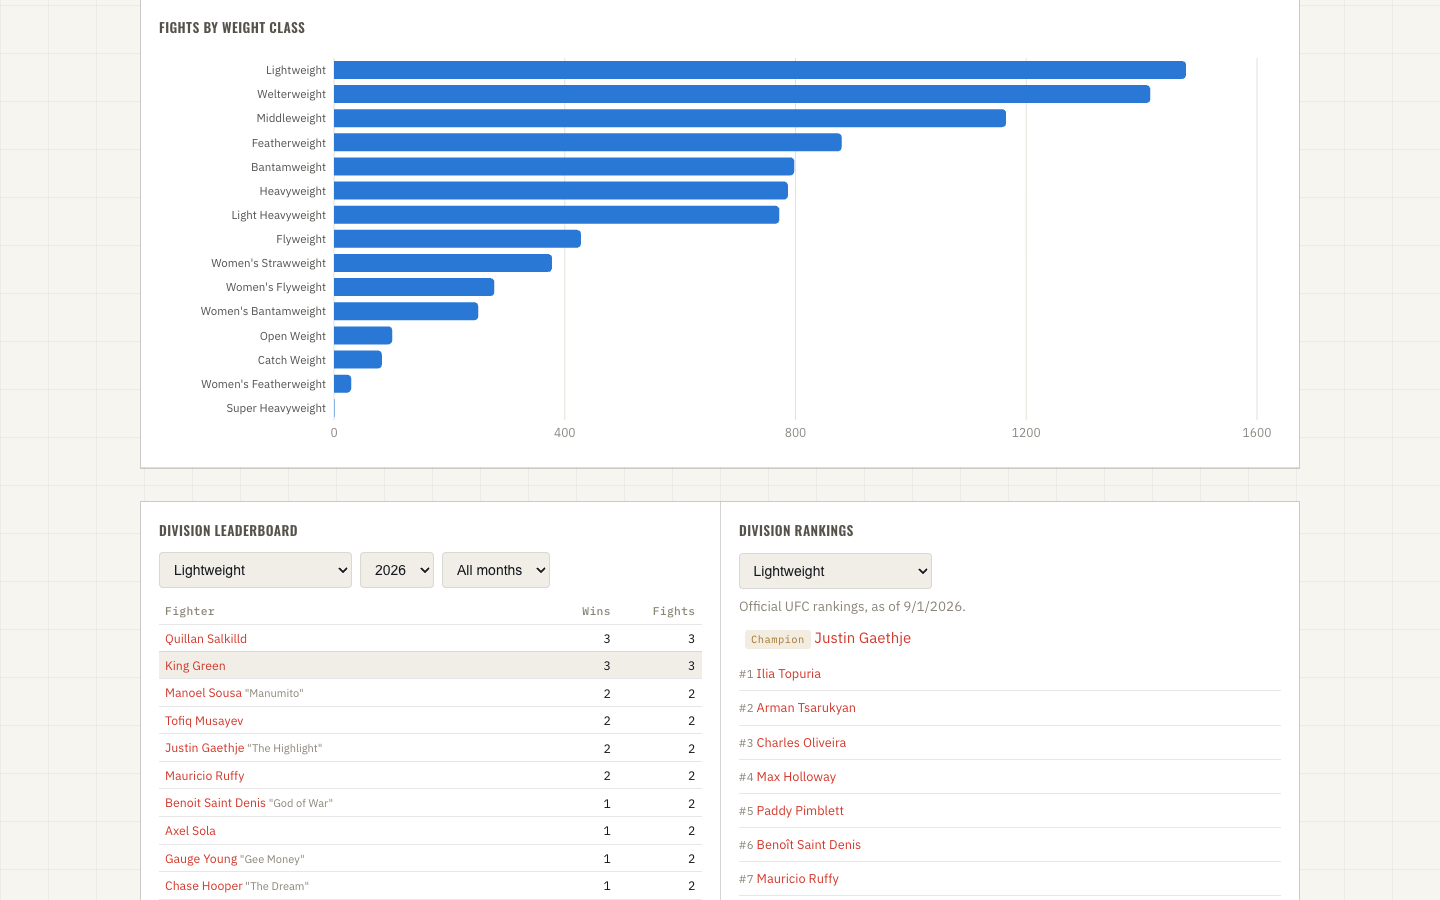
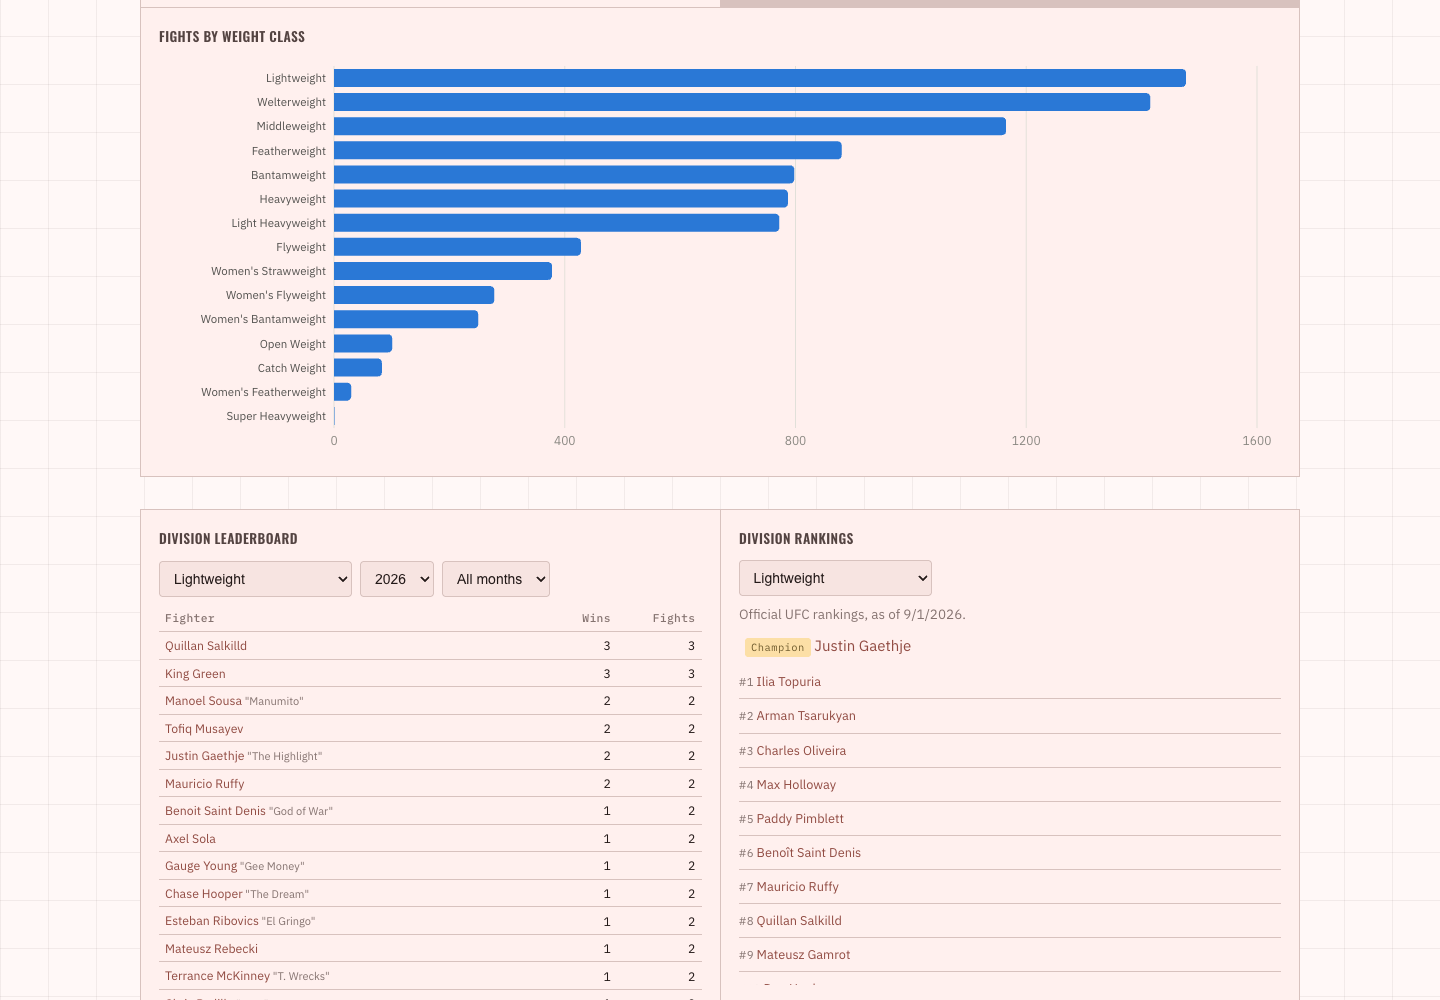
Rebuild UI on Material 3: algorithmically-generated color roles from the existing red-corner accent, real M3 state layers on interactive controls; keep the fight-card newspaper's flat shape language and leave chart series colors untouched

diff --git a/frontend/src/index.css b/frontend/src/index.css
@@ -1,26 +1,82 @@
-/* Token names (--ink, --paper) kept from the dark theme this replaces -
-   --ink is now the light page background and --paper the dark text
-   color, an inversion of what the names literally suggest, rather than
-   renaming every reference across App.css/colors.js/WorldMap.jsx. */
+/* =========================================================================
+   Material 3 design system tokens.
+   Color roles generated algorithmically (HCT tonal-spot, seed #D1372A - the
+   app's existing "red corner" accent, formalized into a real tonal system)
+   via Google's @material/material-color-utilities - the tertiary role landed
+   on a gold naturally, which happens to match the belt/ranking accent this
+   app already used. The legacy variable names (--ink, --paper, --surface...)
+   are kept as aliases onto the new roles so none of the ~30 chart/table
+   components needed touching - only what they resolve to changed.
+
+   Shape stays deliberately flat: this app's "fight-card newspaper" identity
+   (hairline-grid card rows, sharp corners, no elevation shadows) is a real
+   M3-compatible choice - the spec's shape scale explicitly runs from "none"
+   to "full," and staying near the "none/extra-small" end is a valid brand
+   decision, not a deviation. Chart series colors (colors.js) stay untouched -
+   those are validated dataviz encodings, not UI chrome.
+   ========================================================================= */
+
 :root {
   color-scheme: light;
-  --ink: #f7f5f0;
-  --surface: #ffffff;
-  --surface-raised: #f0eee6;
-  --paper: #14171f;
-  --text-secondary: #55524a;
-  --text-muted: #8a8577;
-  --accent-red: #d1372a;
-  --accent-red-soft: rgba(209, 55, 42, 0.1);
-  --accent-blue: #2a78d6;
-  --accent-blue-soft: rgba(42, 120, 214, 0.1);
-  --gold: #a3782c;
-  --gold-soft: rgba(163, 120, 44, 0.14);
+
+  /* Canonical M3 roles */
+  --md-sys-color-primary: #904a41;
+  --md-sys-color-on-primary: #ffffff;
+  --md-sys-color-primary-container: #ffdad5;
+  --md-sys-color-on-primary-container: #73342b;
+  --md-sys-color-secondary: #775652;
+  --md-sys-color-on-secondary: #ffffff;
+  --md-sys-color-secondary-container: #ffdad5;
+  --md-sys-color-on-secondary-container: #5d3f3b;
+  --md-sys-color-tertiary: #705c2e;
+  --md-sys-color-on-tertiary: #ffffff;
+  --md-sys-color-tertiary-container: #fcdfa6;
+  --md-sys-color-on-tertiary-container: #574419;
+  --md-sys-color-error: #ba1a1a;
+  --md-sys-color-on-error: #ffffff;
+  --md-sys-color-error-container: #ffdad6;
+  --md-sys-color-on-error-container: #93000a;
+  --md-sys-color-background: #fff8f7;
+  --md-sys-color-on-background: #231918;
+  --md-sys-color-surface: #fff8f7;
+  --md-sys-color-on-surface: #231918;
+  --md-sys-color-surface-variant: #f5ddda;
+  --md-sys-color-on-surface-variant: #534341;
+  --md-sys-color-surface-container-lowest: #ffffff;
+  --md-sys-color-surface-container-low: #fff0ee;
+  --md-sys-color-surface-container: #fceae7;
+  --md-sys-color-surface-container-high: #f7e4e1;
+  --md-sys-color-surface-container-highest: #f1dedc;
+  --md-sys-color-outline: #857370;
+  --md-sys-color-outline-variant: #d8c2be;
+  --md-sys-color-inverse-surface: #392e2c;
+  --md-sys-color-inverse-on-surface: #ffedea;
+
+  --md-sys-shape-corner-extra-small: 4px;
+  --md-sys-shape-corner-small: 8px;
+  --md-sys-shape-corner-medium: 12px;
+  --md-sys-shape-corner-large: 16px;
+  --md-sys-shape-corner-full: 999px;
+
+  --md-sys-elevation-1: 0 1px 2px 0 rgba(35, 25, 24, 0.14), 0 1px 3px 1px rgba(35, 25, 24, 0.08);
+  --md-sys-elevation-2: 0 1px 2px 0 rgba(35, 25, 24, 0.16), 0 4px 10px 1px rgba(35, 25, 24, 0.08);
+
+  /* Legacy aliases - same tokens, names the rest of the app already uses */
+  --ink: var(--md-sys-color-background);
+  --surface: var(--md-sys-color-surface-container-low);
+  --surface-raised: var(--md-sys-color-surface-container-high);
+  --paper: var(--md-sys-color-on-surface);
+  --text-secondary: var(--md-sys-color-on-surface-variant);
+  --text-muted: var(--md-sys-color-outline);
+  --accent-red: var(--md-sys-color-primary);
+  --accent-red-soft: var(--md-sys-color-primary-container);
+  --gold: var(--md-sys-color-tertiary);
+  --gold-soft: var(--md-sys-color-tertiary-container);
   --good: #1a8a3d;
   --bad: #c62f22;
-  --border: rgba(20, 23, 31, 0.1);
-  --grid-line: rgba(20, 23, 31, 0.045);
-  --shadow: 0 1px 2px rgba(20, 23, 31, 0.05), 0 16px 32px rgba(20, 23, 31, 0.06);
+  --border: var(--md-sys-color-outline-variant);
+  --grid-line: rgba(35, 25, 24, 0.06);
+  --shadow: var(--md-sys-elevation-1);
 
   font: 15px/1.5 "IBM Plex Sans", system-ui, -apple-system, "Segoe UI", sans-serif;
   -webkit-font-smoothing: antialiased;

diff --git a/frontend/src/App.css b/frontend/src/App.css
@@ -339,6 +339,7 @@ h1, h2, h3 {
 .text-input:focus {
   outline: none;
   border-color: var(--accent-red);
+  box-shadow: inset 0 0 0 1px var(--accent-red);
 }
 
 /* Fighter search */
@@ -514,6 +515,7 @@ h1, h2, h3 {
 
 .claude-composer:focus-within {
   border-color: var(--accent-red);
+  box-shadow: inset 0 0 0 1px var(--accent-red);
 }
 
 .claude-composer-input {
@@ -551,11 +553,23 @@ h1, h2, h3 {
   align-items: center;
   justify-content: center;
   cursor: pointer;
-  transition: filter 0.15s, transform 0.1s;
+  isolation: isolate;
+  transition: transform 0.1s;
 }
 
-.claude-send-btn:not(:disabled):hover {
-  filter: brightness(1.1);
+.claude-send-btn::before {
+  content: "";
+  position: absolute;
+  inset: 0;
+  border-radius: inherit;
+  background: #ffffff;
+  opacity: 0;
+  transition: opacity 0.15s ease;
+  z-index: -1;
+}
+
+.claude-send-btn:not(:disabled):hover::before {
+  opacity: 0.12;
 }
 
 .claude-send-btn:not(:disabled):active {

diff --git a/README.md b/README.md
@@ -128,6 +128,26 @@ validator were somehow skipped.
 **Not yet verified:** an actual live call through `chat/agent.py`/`ask.py` -
 this needs `ANTHROPIC_API_KEY`, which isn't set in this environment yet.
 
+## Design system: Material 3, as a fight-card newspaper
+
+The UI's color roles are generated algorithmically from the app's existing
+"red corner" accent (`#D1372A`) via Google's `@material/material-color-utilities`
+HCT tonal-spot algorithm - the same math behind Material You - which is also
+where the gold tertiary color came from (derived, not picked; it happened to
+land right on the belt/ranking accent this app already used). Legacy CSS
+variable names (`--ink`, `--paper`, `--accent-red`, ...) are kept as aliases
+onto the new M3 roles so the ~30 chart/table components needed no changes -
+only what the tokens resolve to did.
+
+Shape stays deliberately flat and sharp-cornered: this app's identity is a
+fight-card newspaper/broadcast grid (hairline dividers, edge-to-edge stat
+cards, no drop shadows), and M3's shape scale explicitly runs from "none" to
+"full" - staying near the flat end is a valid brand choice the spec
+accommodates, not a deviation from it. The chart series palette
+(`colors.js`) is untouched on purpose - those categorical/sequential colors
+are validated for the dataviz they encode, and repainting them to match a UI
+accent would break what they're showing.
+
 ## Dashboard
 
 `backend/` (FastAPI) + `frontend/` (React + Vite + Recharts).
